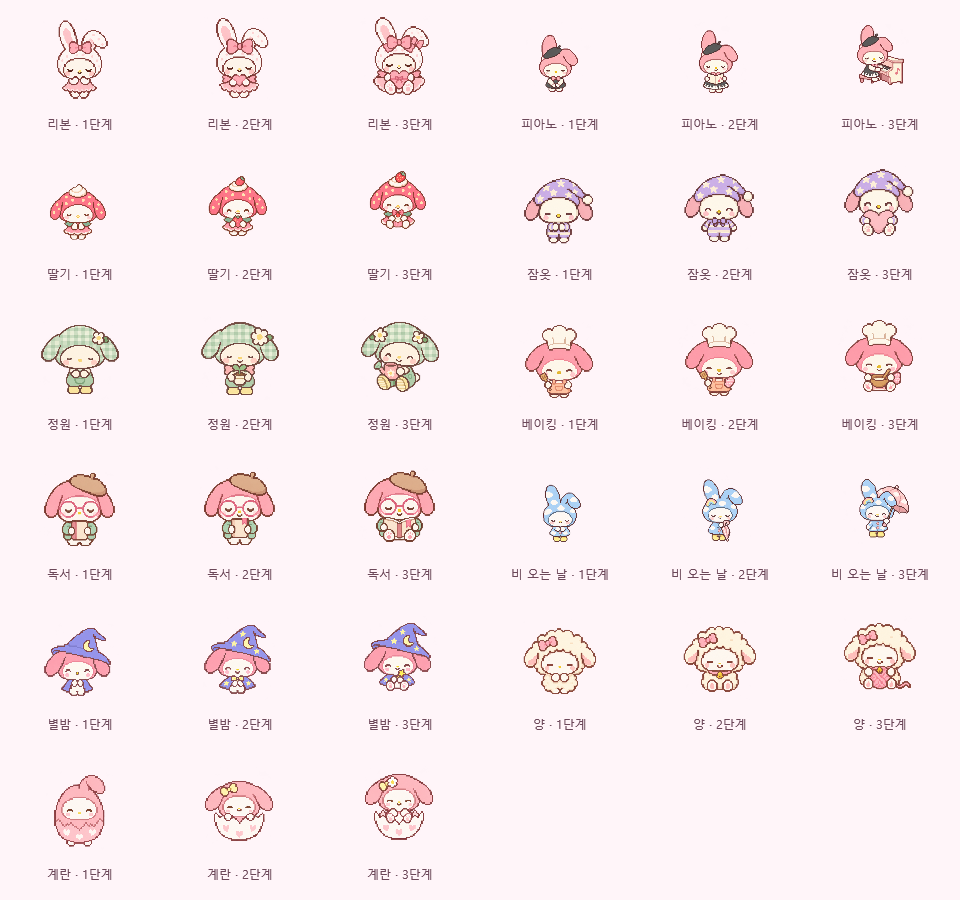
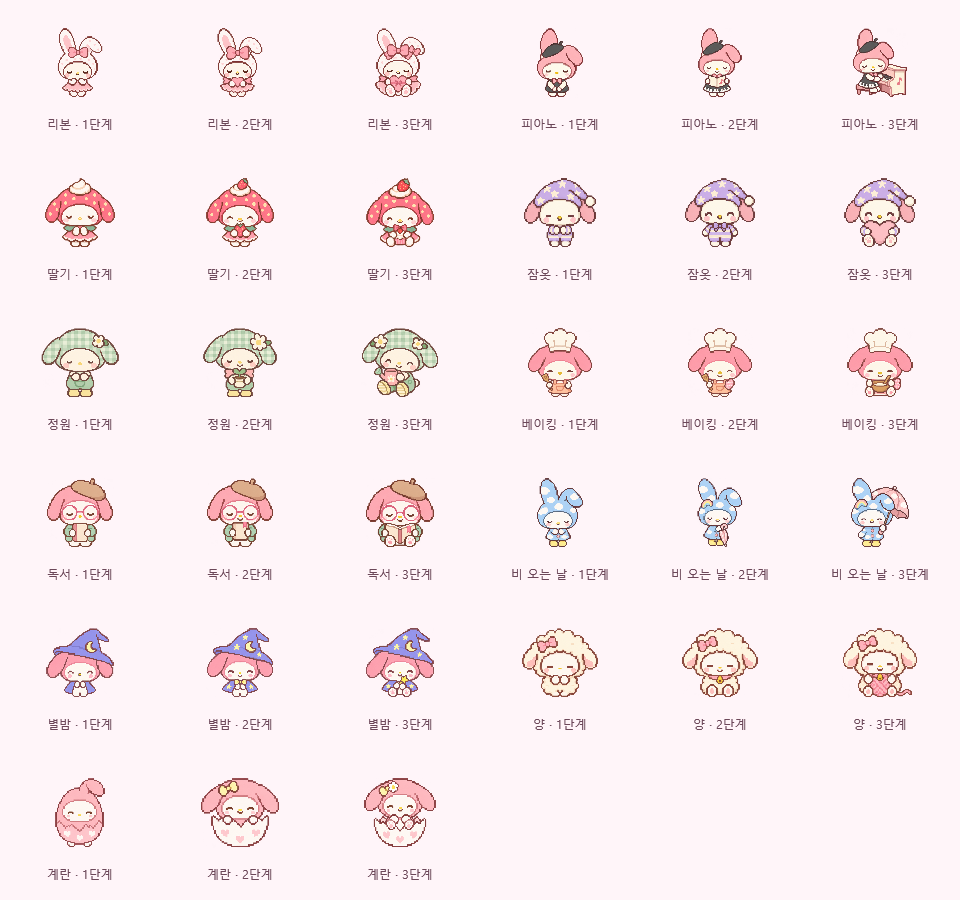
Normalize visible character sizes and align blinking frames

diff --git a/src/MyMelody.App/UiSmoke.cs b/src/MyMelody.App/UiSmoke.cs
@@ -58,6 +58,7 @@ internal static class UiSmoke
         host.Main.Width = host.Main.MinWidth; host.Main.Height = host.Main.MinHeight;
         host.Main.Navigate("Home"); Render(host.Main, output, "home-minimum", 1);
         VerifySprites(output, checks);
+        VerifyUniformSpriteSizes(output, checks);
         var backup = Path.Combine(output, "roundtrip.zip");
         manager.Backup(backup);
         double before = manager.TotalSeconds;
@@ -165,6 +166,101 @@ internal static class UiSmoke
         return pixels;
     }
 
+    private sealed record SpriteSizeMeasurement(string Id, int Stage, bool Blink, int DipSize, double Scale,
+        int PixelSize, int Left, int Top, int Right, int Bottom)
+    {
+        public int VisibleWidth => Right - Left + 1;
+        public int VisibleHeight => Bottom - Top + 1;
+        public double CenterX => (Left + Right) / 2.0;
+    }
+
+    private sealed record SpriteSizeSummary(int DipSize, double Scale, int Samples,
+        int MinimumHeight, int MaximumHeight, int MinimumBottom, int MaximumBottom,
+        int MaximumBlinkHeightDelta, int MaximumBlinkBottomDelta, double MaximumBlinkCenterDelta);
+
+    private static void VerifyUniformSpriteSizes(string output, List<string> checks)
+    {
+        const int heightTolerance = 2, baselineTolerance = 1;
+        const double centerTolerance = 1;
+        var measurements = new List<SpriteSizeMeasurement>();
+        var summaries = new List<SpriteSizeSummary>();
+        var failures = new List<string>();
+        foreach (var (size, scale) in new[] { (96, 1.0), (96, 1.5), (96, 2.0), (48, 1.0), (384, 1.0) })
+        {
+            var group = new List<SpriteSizeMeasurement>();
+            int blinkHeightDelta = 0, blinkBottomDelta = 0;
+            double blinkCenterDelta = 0;
+            foreach (var definition in CharacterCatalog.All)
+            for (int stage = 1; stage <= SpriteSheet.Stages; stage++)
+            {
+                var sprite = new SpriteView { Width = size, Height = size };
+                sprite.ShowCharacter(definition.Id, stage);
+                sprite.Measure(new Size(size, size)); sprite.Arrange(new Rect(0, 0, size, size)); sprite.UpdateLayout();
+                SpriteSizeMeasurement? open = null;
+                foreach (var blink in new[] { false, true })
+                {
+                    sprite.ShowExpression(blink); sprite.UpdateLayout();
+                    var bitmap = RenderVisualBitmap(sprite, size, size, scale);
+                    var measurement = MeasureSprite(bitmap, definition.Id, stage, blink, size, scale);
+                    group.Add(measurement); measurements.Add(measurement);
+                    if (measurement.Left <= 0 || measurement.Top <= 0 || measurement.Right >= bitmap.PixelWidth - 1 || measurement.Bottom >= bitmap.PixelHeight - 1)
+                        failures.Add($"Clipped silhouette: {definition.Id} stage {stage}, blink={blink}, {size} DIP at {scale * 100:0}%.");
+                    if (!blink) open = measurement;
+                    else
+                    {
+                        int heightDelta = Math.Abs(measurement.VisibleHeight - open!.VisibleHeight);
+                        int bottomDelta = Math.Abs(measurement.Bottom - open.Bottom);
+                        double centerDelta = Math.Abs(measurement.CenterX - open.CenterX);
+                        blinkHeightDelta = Math.Max(blinkHeightDelta, heightDelta);
+                        blinkBottomDelta = Math.Max(blinkBottomDelta, bottomDelta);
+                        blinkCenterDelta = Math.Max(blinkCenterDelta, centerDelta);
+                        if (heightDelta > heightTolerance || bottomDelta > baselineTolerance || centerDelta > centerTolerance)
+                            failures.Add($"Blink moved or resized {definition.Id} stage {stage} at {size} DIP / {scale * 100:0}%: height delta {heightDelta} px, bottom delta {bottomDelta} px, center delta {centerDelta:0.0} px.");
+                    }
+                }
+            }
+            var summary = new SpriteSizeSummary(size, scale, group.Count,
+                group.Min(item => item.VisibleHeight), group.Max(item => item.VisibleHeight),
+                group.Min(item => item.Bottom), group.Max(item => item.Bottom),
+                blinkHeightDelta, blinkBottomDelta, blinkCenterDelta);
+            summaries.Add(summary);
+            if (summary.MaximumHeight - summary.MinimumHeight > heightTolerance)
+                failures.Add($"Unequal character heights at {size} DIP / {scale * 100:0}%: {summary.MinimumHeight}–{summary.MaximumHeight} physical pixels.");
+            if (summary.MaximumBottom - summary.MinimumBottom > baselineTolerance)
+                failures.Add($"Unequal character baselines at {size} DIP / {scale * 100:0}%: y={summary.MinimumBottom}–{summary.MaximumBottom} physical pixels.");
+        }
+        var dpiMeasurements = measurements.Where(item => item.DipSize == 96).ToList();
+        double minimumDipHeight = dpiMeasurements.Min(item => item.VisibleHeight / item.Scale);
+        double maximumDipHeight = dpiMeasurements.Max(item => item.VisibleHeight / item.Scale);
+        if (maximumDipHeight - minimumDipHeight > heightTolerance)
+            failures.Add($"DPI changed the logical visible height: {minimumDipHeight:0.00}–{maximumDipHeight:0.00} DIP.");
+        File.WriteAllText(Path.Combine(output, "size-checks.json"), JsonSerializer.Serialize(new
+        {
+            success = failures.Count == 0, alphaThreshold = 16,
+            tolerancesInPhysicalPixels = new { height = heightTolerance, baseline = baselineTolerance, blinkCenter = centerTolerance },
+            configurations = summaries, minimumDipHeight, maximumDipHeight, measurements, failures
+        }, new JsonSerializerOptions { WriteIndented = true, PropertyNamingPolicy = JsonNamingPolicy.CamelCase }));
+        if (failures.Count != 0)
+            throw new InvalidDataException("Character size regression; see size-checks.json. " + string.Join(" ", failures.Take(5)));
+        checks.Add($"All {CharacterCatalog.All.Count * SpriteSheet.Stages * SpriteSheet.Columns} actual sprite expressions retain uniform visible height, a common baseline, and stable blink alignment at 96 DIP with 100/150/200% DPI and at 48/384 DIP; geometry differs by at most 2 physical pixels for height and 1 for baseline or blink center.");
+    }
+
+    private static SpriteSizeMeasurement MeasureSprite(BitmapSource bitmap, string id, int stage, bool blink, int dipSize, double scale)
+    {
+        var pixels = new byte[bitmap.PixelWidth * bitmap.PixelHeight * 4];
+        bitmap.CopyPixels(pixels, bitmap.PixelWidth * 4, 0);
+        int left = bitmap.PixelWidth, top = bitmap.PixelHeight, right = -1, bottom = -1;
+        for (int y = 0, offset = 3; y < bitmap.PixelHeight; y++)
+        for (int x = 0; x < bitmap.PixelWidth; x++, offset += 4)
+        {
+            if (pixels[offset] < 16) continue;
+            left = Math.Min(left, x); right = Math.Max(right, x);
+            top = Math.Min(top, y); bottom = Math.Max(bottom, y);
+        }
+        if (right < left) throw new InvalidDataException($"Rendered sprite is empty: {id}, stage {stage}, blink={blink}.");
+        return new(id, stage, blink, dipSize, scale, bitmap.PixelWidth, left, top, right, bottom);
+    }
+
     private static void VerifyIcon(MainWindow window, List<string> checks, string output)
     {
         var decoder = BitmapDecoder.Create(AppIcon.ResourceUri, BitmapCreateOptions.PreservePixelFormat, BitmapCacheOption.OnLoad);
@@ -226,9 +322,14 @@ internal static class UiSmoke
     }
     private static void SaveVisual(Visual visual, double width, double height, double scale, string path)
     {
-        var target = new RenderTargetBitmap((int)Math.Ceiling(width * scale), (int)Math.Ceiling(height * scale), 96 * scale, 96 * scale, PixelFormats.Pbgra32);
-        target.Render(visual);
+        var target = RenderVisualBitmap(visual, width, height, scale);
         var encoder = new PngBitmapEncoder(); encoder.Frames.Add(BitmapFrame.Create(target));
         using var stream = File.Create(path); encoder.Save(stream);
+    }
+    private static RenderTargetBitmap RenderVisualBitmap(Visual visual, double width, double height, double scale)
+    {
+        var target = new RenderTargetBitmap((int)Math.Ceiling(width * scale), (int)Math.Ceiling(height * scale), 96 * scale, 96 * scale, PixelFormats.Pbgra32);
+        target.Render(visual);
+        return target;
     }
 }

diff --git a/src/MyMelody.App/SpritePresentation.cs b/src/MyMelody.App/SpritePresentation.cs
@@ -1,0 +1,97 @@
+using System.Windows;
+using System.Windows.Media;
+using System.Windows.Media.Imaging;
+using MyMelody.Core;
+
+namespace MyMelody.App;
+
+// Source cells remain untouched. Layout follows the visible silhouette instead of PNG padding.
+internal static class SpritePresentation
+{
+    private const double CanvasSize = 512;
+    private const double ContentLimit = 480;
+    private const double Baseline = 496;
+    private const byte VisibleAlpha = 16;
+    private const int EdgePadding = 2;
+    private static readonly Lazy<Dictionary<(string Id, int Stage, bool Blink), ImageSource>> Frames = new(BuildFrames);
+
+    internal static ImageSource Frame(string id, int stage, bool blink) => Frames.Value[(id, stage, blink)];
+
+    private sealed record Expression(BitmapSource Bitmap, Int32Rect Bounds);
+    private sealed record Pair(string Id, int Stage, Expression Open, Expression Blink)
+    {
+        // A shared scale prevents blinking from making a character grow or shrink.
+        public int Height => Math.Max(Open.Bounds.Height, Blink.Bounds.Height);
+        public int Width => Math.Max(Open.Bounds.Width, Blink.Bounds.Width);
+    }
+
+    private static Dictionary<(string, int, bool), ImageSource> BuildFrames()
+    {
+        var pairs = new List<Pair>();
+        foreach (var character in CharacterCatalog.All)
+        {
+            var path = SpriteSheet.PathFor(character.Id);
+            if (!File.Exists(path)) continue;
+            for (var stage = 1; stage <= SpriteSheet.Stages; stage++)
+            {
+                var open = SpriteSheet.GridFrame(path, stage, false);
+                var blink = SpriteSheet.GridFrame(path, stage, true);
+                pairs.Add(new Pair(character.Id, stage, new(open, VisibleBounds(open)), new(blink, VisibleBounds(blink))));
+            }
+        }
+
+        // Every appearance has the same height. The widest costume sets the available width.
+        double widestAspect = pairs.Count == 0 ? 1 : pairs.Max(pair => pair.Width / (double)pair.Height);
+        double height = ContentLimit / Math.Max(1, widestAspect);
+        var result = new Dictionary<(string, int, bool), ImageSource>();
+        foreach (var pair in pairs)
+        {
+            double scale = height / pair.Height;
+            result[(pair.Id, pair.Stage, false)] = Draw(pair.Open, scale);
+            result[(pair.Id, pair.Stage, true)] = Draw(pair.Blink, scale);
+        }
+        return result;
+    }
+
+    private static Int32Rect VisibleBounds(BitmapSource bitmap)
+    {
+        var rgba = new FormatConvertedBitmap(bitmap, PixelFormats.Bgra32, null, 0);
+        var pixels = new byte[rgba.PixelWidth * rgba.PixelHeight * 4];
+        rgba.CopyPixels(pixels, rgba.PixelWidth * 4, 0);
+        int left = rgba.PixelWidth, top = rgba.PixelHeight, right = -1, bottom = -1;
+        for (int y = 0, offset = 3; y < rgba.PixelHeight; y++)
+        for (int x = 0; x < rgba.PixelWidth; x++, offset += 4)
+        {
+            // Ignore transparent RGB and barely visible alpha residue around generated sprites.
+            if (pixels[offset] < VisibleAlpha) continue;
+            left = Math.Min(left, x); right = Math.Max(right, x);
+            top = Math.Min(top, y); bottom = Math.Max(bottom, y);
+        }
+        if (right < left) throw new InvalidDataException("Character expression has no visible pixels.");
+        return new Int32Rect(left, top, right - left + 1, bottom - top + 1);
+    }
+
+    private static ImageSource Draw(Expression expression, double scale)
+    {
+        var bounds = expression.Bounds;
+        int left = Math.Max(0, bounds.X - EdgePadding), top = Math.Max(0, bounds.Y - EdgePadding);
+        int right = Math.Min(expression.Bitmap.PixelWidth, bounds.X + bounds.Width + EdgePadding);
+        int bottom = Math.Min(expression.Bitmap.PixelHeight, bounds.Y + bounds.Height + EdgePadding);
+        var crop = new CroppedBitmap(expression.Bitmap, new Int32Rect(left, top, right - left, bottom - top));
+        crop.Freeze();
+
+        // Register each source expression by its center and feet. This removes source-sheet
+        // offsets while both expressions retain the same scale and full aspect ratio.
+        var destination = new Rect(
+            CanvasSize / 2 + (left - bounds.X - bounds.Width / 2.0) * scale,
+            Baseline + (top - bounds.Y - bounds.Height) * scale,
+            crop.PixelWidth * scale, crop.PixelHeight * scale);
+        var drawing = new DrawingGroup();
+        drawing.Children.Add(new GeometryDrawing(Brushes.Transparent, null, new RectangleGeometry(new Rect(0, 0, CanvasSize, CanvasSize))));
+        drawing.Children.Add(new ImageDrawing(crop, destination));
+        drawing.Freeze();
+        var image = new DrawingImage(drawing);
+        image.Freeze();
+        return image;
+    }
+}

diff --git a/src/MyMelody.App/SpriteSheet.cs b/src/MyMelody.App/SpriteSheet.cs
@@ -1,4 +1,5 @@
 using System.Windows;
+using System.Windows.Media;
 using System.Windows.Media.Imaging;
 
 namespace MyMelody.App;
@@ -12,11 +13,11 @@ internal static class SpriteSheet
 
     internal static string PathFor(string id) => Path.Combine(AppContext.BaseDirectory, "Assets", "Characters", $"{id}.png");
 
-    internal static BitmapSource? Frame(string id, int stage, bool blink)
+    internal static ImageSource? Frame(string id, int stage, bool blink)
     {
         if (stage is < 1 or > Stages) throw new ArgumentOutOfRangeException(nameof(stage));
         var path = PathFor(id);
-        if (File.Exists(path)) return GridFrame(path, stage, blink);
+        if (File.Exists(path)) return SpritePresentation.Frame(id, stage, blink);
 
         // Old development output can still be opened while the new artwork is being prepared.
         var legacy = Path.Combine(AppContext.BaseDirectory, "Assets", "Characters", $"{id}-{stage}.png");

diff --git a/docs/release-notes.md b/docs/release-notes.md
@@ -1,10 +1,9 @@
-# 마이멜로디 연습 친구 1.1.0
+# 마이멜로디 연습 친구 1.1.1
 
-기존 9종을 서로 다른 도트 의상으로 리메이크하고, 양·계란 친구를 추가했습니다. 이제 총 11종을 만날 수 있어요.
+친구마다 보이는 크기가 달랐던 문제를 수정했습니다.
 
-- 도트 윤곽과 부드러운 색감을 유지하면서 의상·귀 모양·자세·소품을 다양하게 바꿨습니다.
-- 딸기는 씨앗 무늬의 딸기 모자와 크림 장식으로, 정원은 민트 체크무늬 옷으로, 비 오는 날은 구름무늬 우비로 새로 꾸몄습니다.
-- 양은 복슬복슬한 양옷과 실뭉치, 계란은 동그란 알에서 깨어나는 세 단계 모습으로 자랍니다.
-- 11종 모두 세 단계 성장과 눈 깜빡임을 제공합니다. 12·24·36시간 성장 기준은 같습니다.
-- 기존 연습 기록·경험치·컬렉션·설정과 30분 세션 표시 규칙을 유지합니다. 이미 완성한 친구도 새 외형으로 표시됩니다.
-- 기존 9종을 모두 완성했다면 새 두 친구만 중복 없이 이어서 뽑을 수 있습니다.
+- 11종의 세 단계 모두 투명 여백을 제외한 실제 외형의 높이를 맞춥니다.
+- 얼굴·귀·옷·소품의 비율을 유지하면서 가로 중심과 바닥선을 정렬합니다.
+- 눈 깜빡임 그림의 좌우 위치 차이를 보정하고 같은 배율을 사용해 흔들림을 줄였습니다.
+- 바탕화면, 홈, 컬렉션에 동일한 크기 기준을 적용합니다. 크기 조절 기능도 그대로 사용할 수 있습니다.
+- 그림 원본과 기존 연습 기록·성장·컬렉션·설정은 유지됩니다.

diff --git a/docs/art-prompts.md b/docs/art-prompts.md
@@ -42,3 +42,5 @@ Create one transparent PNG sprite sheet with exactly two columns and three rows 
 각 결과를 눈으로 확인한 뒤, PNG 픽셀 포맷·투명 배경 알파·2:3 시트 비율·개별 셀 규격·파일 수를 검사합니다. WPF 앱의 실제 렌더러로 기본 96 DIP에서 33개 모습을 모은 미리보기를 확인합니다. 코드로 캐릭터 그림을 대체하거나 배경을 지우지 않습니다.
 
 생성 원본의 투명 픽셀에는 배경색 RGB가 남아 있을 수 있지만 알파 값은 0이며, WPF에서는 투명하게 표시됩니다. 원본 알파를 유지한 채 프로젝트에 복사했습니다. 이전 버전의 27개 시트는 Git 이력에 남고, 새 배포에는 현재 11개 시트만 포함합니다. 캐릭터 ID는 이전 9종을 그대로 유지하며 개인 기록을 변환하거나 초기화하지 않습니다.
+
+1.1.1부터는 PNG 원본을 그대로 두고 앱 표시 단계에서 크기를 통일합니다. 알파 16/255 이상인 외형을 측정하고 테두리 2픽셀을 덧대어 도트 가장자리를 보존합니다. 모든 단계의 높이와 바닥선을 맞추되, 가장 넓은 의상도 들어오도록 공통 높이를 정합니다. 눈 뜬 모습과 감은 모습에는 같은 배율을 쓰고 가로 중심·바닥선을 각각 정렬해 원본 시트의 좌우 위치 차이를 보정합니다. WPF의 최근접 이웃 표시를 유지하며 새 그림 생성이나 파일 재인코딩은 하지 않습니다.
